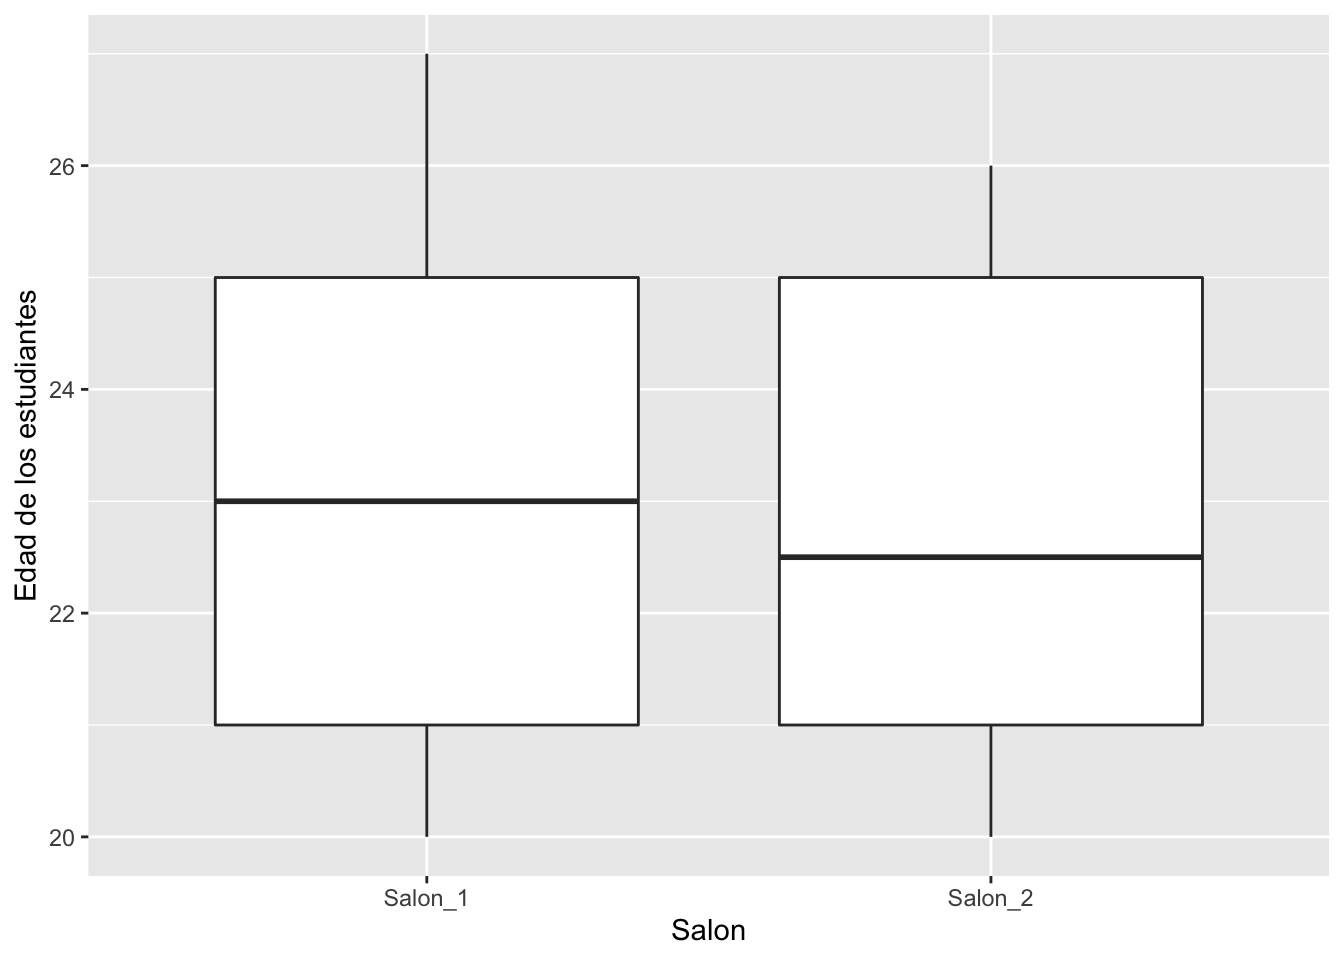
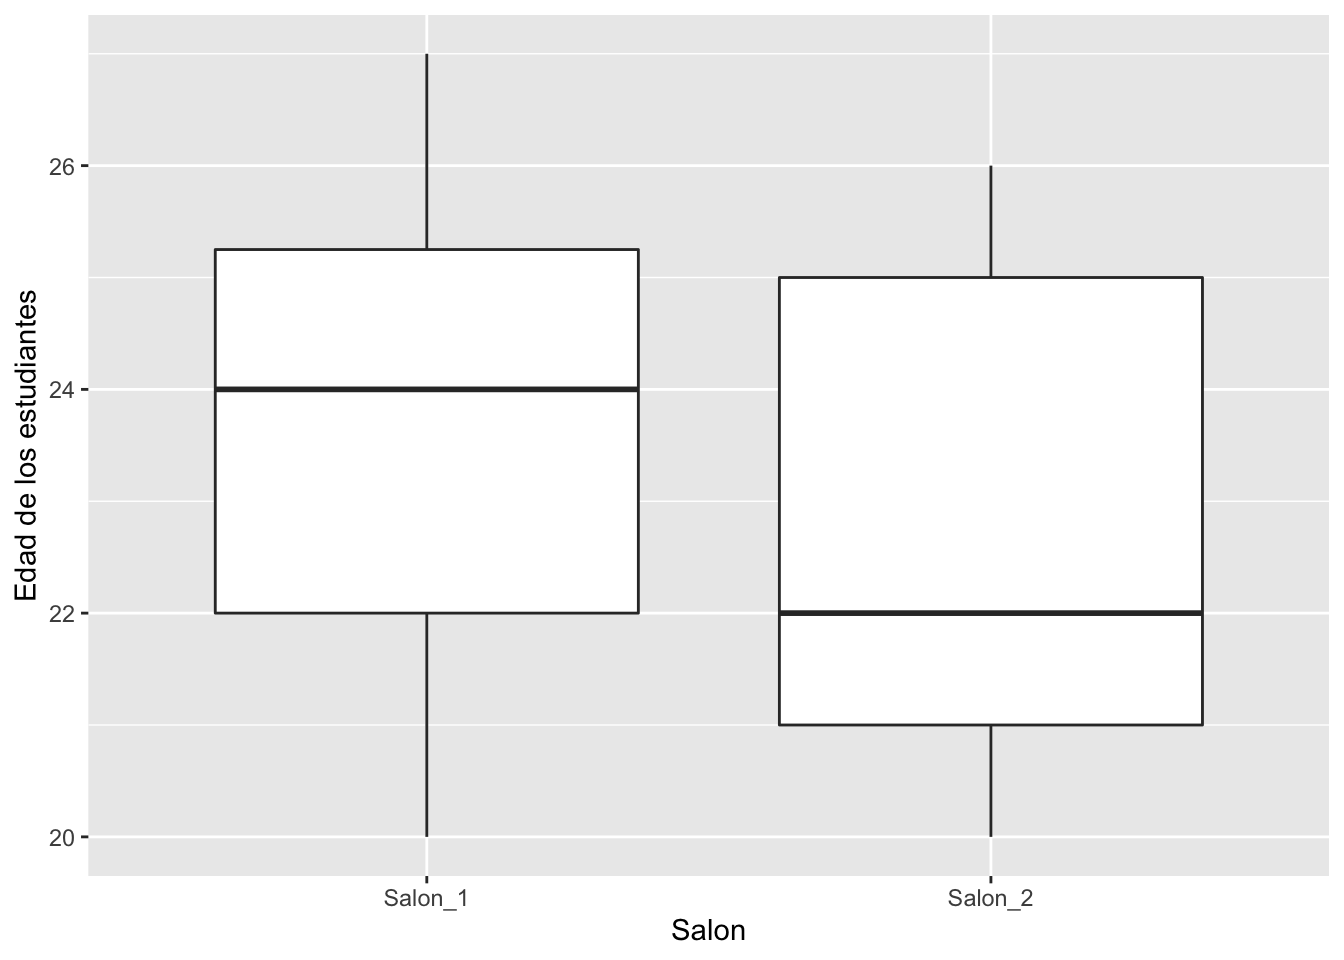
Florence

diff --git a/ggplot2.html b/ggplot2.html
@@ -379,7 +379,7 @@ div.tocify {
   </a>
   <ul class="dropdown-menu" role="menu">
     <li>
-      <a href="Errores-tipicos-en-la-visualizacion.html">Errores tipicos en la visualización</a>
+      <a href="Errores-tipicos-en-la-visualizacion.html">Errores típicos en la visualización</a>
     </li>
     <li>
       <a href="ggplot2.html">Introducción a la visualización de datos</a>
@@ -469,30 +469,26 @@ div.tocify {
 </div>
 
 
-<div id="que-es-visualizar-datos-uy-cual-es-el-problema" class="section level1">
-<h1>¿Que es visualizar datos uy cual es el problema?</h1>
-<p>La visualización de datos tiene como objetivo facilitar la apreciación de datos y determinar si patrones. Naturalmente, no se necesita gráficos para entender ciertos ideas. Por ejemplo si un estudiantes tiene 25 años un otro estudiante tiene 20 años. No hay que hacer un gráfico para entender que hay 5 años de diferencia entre uno y el otro. Se hace gráficos típicamente cuando hay muchos datos y entender los datos con valores numéricos o lista no es ayuda.</p>
+<div id="que-es-la-visualización-de-datos" class="section level1">
+<h1>¿Que es la visualización de datos?</h1>
+<p>La visualización de datos tiene como objetivo facilitar la apreciación de datos y determinar si existe patrones. Naturalmente, no se necesita gráficos para entender ciertas ideas. Por ejemplo si un estudiantes tiene 25 años un otro estudiante tiene 20 años. No hay que hacer un gráfico para entender que hay 5 años de diferencia entre uno y el otro. Se hace gráficos típicamente cuando hay muchos datos y entender los datos con valores numéricos o lista no es ayuda.</p>
 <p>Por ejemplo trata de explicar cual es la diferencia (si hay) en las dos listas siguientes.</p>
-<pre><code>## Warning in doTryCatch(return(expr), name, parentenv, handler): unable to load shared object &#39;/Library/Frameworks/R.framework/Resources/modules//R_X11.so&#39;:
-##   dlopen(/Library/Frameworks/R.framework/Resources/modules//R_X11.so, 6): Library not loaded: /opt/X11/lib/libSM.6.dylib
-##   Referenced from: /Library/Frameworks/R.framework/Versions/4.0/Resources/modules/R_X11.so
-##   Reason: image not found</code></pre>
 <pre><code>## $V1
-##   [1] 24 20 27 26 22 20 25 20 23 20 27 21 21 23 22 25 25 27 23 25 26 21 23 21 22
-##  [26] 22 20 23 24 24 26 24 23 20 23 20 26 23 25 24 24 27 21 22 20 20 27 20 22 26
-##  [51] 21 25 23 24 21 21 22 20 24 22 20 24 24 22 27 22 27 26 20 27 24 21 27 20 21
-##  [76] 24 26 22 24 26 22 23 25 21 20 21 27 26 21 26 23 26 22 27 26 22 24 24 24 26</code></pre>
+##   [1] 24 20 24 25 23 24 24 22 22 26 25 26 24 23 25 27 25 23 23 25 25 21 25 20 22
+##  [26] 20 24 23 24 26 24 26 23 24 22 25 24 25 20 27 25 22 20 20 24 25 20 25 20 24
+##  [51] 24 23 27 25 24 25 25 20 24 23 22 23 27 21 23 23 23 21 21 25 23 24 22 27 24
+##  [76] 21 21 21 25 22 27 21 26 26 20 25 20 21 24 20 24 22 21 21 24 26 23 24 22 25</code></pre>
 <hr />
 <pre><code>## $V1
-##   [1] 22 22 22 26 25 21 24 22 25 22 22 24 24 23 23 22 25 20 20 26 25 20 21 23 24
-##  [26] 25 22 23 26 23 21 25 24 25 23 25 25 24 21 21 22 20 25 23 20 26 23 24 21 21
-##  [51] 20 20 20 20 22 22 21 26 26 22 26 25 24 21 22 24 25 26 26 25 20 21 22 26 22
-##  [76] 20 21 26 24 21 23 20 20 22 21 21 24 26 24 25 26 24 22 20 22 20 25 20 20 22</code></pre>
-<p>Probablemente no es evidente a primera vista cual es la diferencia.</p>
+##   [1] 25 22 21 23 25 22 25 23 20 26 25 26 24 23 24 26 26 23 20 26 25 25 20 22 22
+##  [26] 25 21 23 23 25 25 24 26 26 20 22 25 24 24 22 22 23 26 22 26 26 23 24 25 26
+##  [51] 20 20 24 21 20 22 23 25 20 25 20 23 21 23 21 21 25 20 24 25 20 23 26 24 21
+##  [76] 23 20 26 24 24 21 21 22 20 20 22 20 21 21 22 22 21 26 24 23 21 23 25 20 20</code></pre>
+<p>Probablemente no es evidente a primera vista cual es la diferencia entre las dos listas de datos.</p>
 <hr />
 <div id="resumir-la-información-en-tablas" class="section level2">
 <h2>Resumir la información en tablas</h2>
-<p>Una de las alternativas es resumir los datos en una tablas, por ejemplo por grupos</p>
+<p>Una de las alternativas es resumir los datos en una tablas, por ejemplo por grupos. Se observa que hay muy poca diferencia entre los promedios de edad de los estudiantes por cada salón, pero la edad máxima de los estudiantes en los dos salones es diferente. Lo que uno observa es que las dos listas tienen valores muy similares pero el máximo valor en cada lista es diferente. Si hay muchos valores en una lista típicamente los humanos no podemos entender estos patrones. Por consecuencia es importante buscar maneras de resumir los datos en algo más conciso.</p>
 <pre class="r"><code>df%&gt;%
   select(V1, Salon)%&gt;%
   group_by(Salon)%&gt;%
@@ -502,12 +498,11 @@ div.tocify {
   gt()%&gt;%
   tab_header(
     title = &quot;Edad de los Estudiantes&quot;)</code></pre>
-<pre><code>## `summarise()` ungrouping output (override with `.groups` argument)</code></pre>
-<p><style>html {
+<style>html {
   font-family: -apple-system, BlinkMacSystemFont, 'Segoe UI', Roboto, Oxygen, Ubuntu, Cantarell, 'Helvetica Neue', 'Fira Sans', 'Droid Sans', Arial, sans-serif;
 }
 
-#hlftetwyzv .gt_table {
+#siihlizehj .gt_table {
   display: table;
   border-collapse: collapse;
   margin-left: auto;
@@ -530,7 +525,7 @@ div.tocify {
   border-left-color: #D3D3D3;
 }
 
-#hlftetwyzv .gt_heading {
+#siihlizehj .gt_heading {
   background-color: #FFFFFF;
   text-align: center;
   border-bottom-color: #FFFFFF;
@@ -542,7 +537,7 @@ div.tocify {
   border-right-color: #D3D3D3;
 }
 
-#hlftetwyzv .gt_title {
+#siihlizehj .gt_title {
   color: #333333;
   font-size: 125%;
   font-weight: initial;
@@ -552,7 +547,7 @@ div.tocify {
   border-bottom-width: 0;
 }
 
-#hlftetwyzv .gt_subtitle {
+#siihlizehj .gt_subtitle {
   color: #333333;
   font-size: 85%;
   font-weight: initial;
@@ -562,13 +557,13 @@ div.tocify {
   border-top-width: 0;
 }
 
-#hlftetwyzv .gt_bottom_border {
+#siihlizehj .gt_bottom_border {
   border-bottom-style: solid;
   border-bottom-width: 2px;
   border-bottom-color: #D3D3D3;
 }
 
-#hlftetwyzv .gt_col_headings {
+#siihlizehj .gt_col_headings {
   border-top-style: solid;
   border-top-width: 2px;
   border-top-color: #D3D3D3;
@@ -583,7 +578,7 @@ div.tocify {
   border-right-color: #D3D3D3;
 }
 
-#hlftetwyzv .gt_col_heading {
+#siihlizehj .gt_col_heading {
   color: #333333;
   background-color: #FFFFFF;
   font-size: 100%;
@@ -603,7 +598,7 @@ div.tocify {
   overflow-x: hidden;
 }
 
-#hlftetwyzv .gt_column_spanner_outer {
+#siihlizehj .gt_column_spanner_outer {
   color: #333333;
   background-color: #FFFFFF;
   font-size: 100%;
@@ -615,15 +610,15 @@ div.tocify {
   padding-right: 4px;
 }
 
-#hlftetwyzv .gt_column_spanner_outer:first-child {
+#siihlizehj .gt_column_spanner_outer:first-child {
   padding-left: 0;
 }
 
-#hlftetwyzv .gt_column_spanner_outer:last-child {
+#siihlizehj .gt_column_spanner_outer:last-child {
   padding-right: 0;
 }
 
-#hlftetwyzv .gt_column_spanner {
+#siihlizehj .gt_column_spanner {
   border-bottom-style: solid;
   border-bottom-width: 2px;
   border-bottom-color: #D3D3D3;
@@ -635,7 +630,7 @@ div.tocify {
   width: 100%;
 }
 
-#hlftetwyzv .gt_group_heading {
+#siihlizehj .gt_group_heading {
   padding: 8px;
   color: #333333;
   background-color: #FFFFFF;
@@ -657,7 +652,7 @@ div.tocify {
   vertical-align: middle;
 }
 
-#hlftetwyzv .gt_empty_group_heading {
+#siihlizehj .gt_empty_group_heading {
   padding: 0.5px;
   color: #333333;
   background-color: #FFFFFF;
@@ -672,19 +667,19 @@ div.tocify {
   vertical-align: middle;
 }
 
-#hlftetwyzv .gt_striped {
+#siihlizehj .gt_striped {
   background-color: rgba(128, 128, 128, 0.05);
 }
 
-#hlftetwyzv .gt_from_md > :first-child {
+#siihlizehj .gt_from_md > :first-child {
   margin-top: 0;
 }
 
-#hlftetwyzv .gt_from_md > :last-child {
+#siihlizehj .gt_from_md > :last-child {
   margin-bottom: 0;
 }
 
-#hlftetwyzv .gt_row {
+#siihlizehj .gt_row {
   padding-top: 8px;
   padding-bottom: 8px;
   padding-left: 5px;
@@ -703,7 +698,7 @@ div.tocify {
   overflow-x: hidden;
 }
 
-#hlftetwyzv .gt_stub {
+#siihlizehj .gt_stub {
   color: #333333;
   background-color: #FFFFFF;
   font-size: 100%;
@@ -715,7 +710,7 @@ div.tocify {
   padding-left: 12px;
 }
 
-#hlftetwyzv .gt_summary_row {
+#siihlizehj .gt_summary_row {
   color: #333333;
   background-color: #FFFFFF;
   text-transform: inherit;
@@ -725,7 +720,7 @@ div.tocify {
   padding-right: 5px;
 }
 
-#hlftetwyzv .gt_first_summary_row {
+#siihlizehj .gt_first_summary_row {
   padding-top: 8px;
   padding-bottom: 8px;
   padding-left: 5px;
@@ -735,7 +730,7 @@ div.tocify {
   border-top-color: #D3D3D3;
 }
 
-#hlftetwyzv .gt_grand_summary_row {
+#siihlizehj .gt_grand_summary_row {
   color: #333333;
   background-color: #FFFFFF;
   text-transform: inherit;
@@ -745,7 +740,7 @@ div.tocify {
   padding-right: 5px;
 }
 
-#hlftetwyzv .gt_first_grand_summary_row {
+#siihlizehj .gt_first_grand_summary_row {
   padding-top: 8px;
   padding-bottom: 8px;
   padding-left: 5px;
@@ -755,7 +750,7 @@ div.tocify {
   border-top-color: #D3D3D3;
 }
 
-#hlftetwyzv .gt_table_body {
+#siihlizehj .gt_table_body {
   border-top-style: solid;
   border-top-width: 2px;
   border-top-color: #D3D3D3;
@@ -764,7 +759,7 @@ div.tocify {
   border-bottom-color: #D3D3D3;
 }
 
-#hlftetwyzv .gt_footnotes {
+#siihlizehj .gt_footnotes {
   color: #333333;
   background-color: #FFFFFF;
   border-bottom-style: none;
@@ -778,13 +773,13 @@ div.tocify {
   border-right-color: #D3D3D3;
 }
 
-#hlftetwyzv .gt_footnote {
+#siihlizehj .gt_footnote {
   margin: 0px;
   font-size: 90%;
   padding: 4px;
 }
 
-#hlftetwyzv .gt_sourcenotes {
+#siihlizehj .gt_sourcenotes {
   color: #333333;
   background-color: #FFFFFF;
   border-bottom-style: none;
@@ -798,46 +793,46 @@ div.tocify {
   border-right-color: #D3D3D3;
 }
 
-#hlftetwyzv .gt_sourcenote {
+#siihlizehj .gt_sourcenote {
   font-size: 90%;
   padding: 4px;
 }
 
-#hlftetwyzv .gt_left {
+#siihlizehj .gt_left {
   text-align: left;
 }
 
-#hlftetwyzv .gt_center {
+#siihlizehj .gt_center {
   text-align: center;
 }
 
-#hlftetwyzv .gt_right {
+#siihlizehj .gt_right {
   text-align: right;
   font-variant-numeric: tabular-nums;
 }
 
-#hlftetwyzv .gt_font_normal {
+#siihlizehj .gt_font_normal {
   font-weight: normal;
 }
 
-#hlftetwyzv .gt_font_bold {
+#siihlizehj .gt_font_bold {
   font-weight: bold;
 }
 
-#hlftetwyzv .gt_font_italic {
+#siihlizehj .gt_font_italic {
   font-style: italic;
 }
 
-#hlftetwyzv .gt_super {
+#siihlizehj .gt_super {
   font-size: 65%;
 }
 
-#hlftetwyzv .gt_footnote_marks {
+#siihlizehj .gt_footnote_marks {
   font-style: italic;
   font-size: 65%;
 }
 </style>
-<div id="hlftetwyzv" style="overflow-x:auto;overflow-y:auto;width:auto;height:auto;"><table class="gt_table">
+<div id="siihlizehj" style="overflow-x:auto;overflow-y:auto;width:auto;height:auto;"><table class="gt_table">
   <thead class="gt_header">
     <tr>
       <th colspan="4" class="gt_heading gt_title gt_font_normal" style>Edad de los Estudiantes</th>
@@ -857,20 +852,20 @@ div.tocify {
   <tbody class="gt_table_body">
     <tr>
       <td class="gt_row gt_left">Salon_1</td>
-      <td class="gt_row gt_right">23.28</td>
+      <td class="gt_row gt_right">23.36</td>
       <td class="gt_row gt_center">20</td>
       <td class="gt_row gt_center">27</td>
     </tr>
     <tr>
       <td class="gt_row gt_left">Salon_2</td>
-      <td class="gt_row gt_right">22.84</td>
+      <td class="gt_row gt_right">22.96</td>
       <td class="gt_row gt_center">20</td>
       <td class="gt_row gt_center">26</td>
     </tr>
   </tbody>
   
   
-</table></div> Lo que uno observa es que las dos listas tienen valores muy similares pero el máximo valor en cada lista es diferente. Si hay muchos valores en una lista típicamente los humanos no podemos entender estos patrones. Por consecuencia es importante buscar maneras de resumir los datos en algo más conciso.</p>
+</table></div>
 </div>
 <div id="visualizar-muchos-datos" class="section level2">
 <h2>Visualizar muchos datos</h2>
@@ -878,23 +873,32 @@ div.tocify {
 <pre class="r"><code>ggplot(df, aes(y=V1, x=Salon))+
   geom_boxplot()+
   ylab(&quot;Edad de los estudiantes&quot;)</code></pre>
-<p><img src="ggplot2_files/figure-html/unnamed-chunk-7-1.png" width="672" style="display: block; margin: auto;" /></p>
+<p><img src="ggplot2_files/figure-html/unnamed-chunk-8-1.png" width="672" style="display: block; margin: auto;" /></p>
 </div>
 </div>
 <div id="ejemplos-históricos" class="section level1">
 <h1>Ejemplos históricos</h1>
-<div id="ejemplo-de-la-campaña-de-napoleon-para-invadir-a-rusia" class="section level2">
-<h2>Ejemplo de la Campaña de Napoleon para invadir a Rusia</h2>
-<p>Esta sección no es exhaustiva y solamente para representar algunos ejemplos de gráficos y su desarrollo. Charles Joseph Minard (1781-1870; Francia) es una de las personas que contribuyó en lo que se llama gráficas informativas (Information Graphics). El es reconocido por haber sido muy inovador en el uso de greaficos para demostrar patrones. El más famoso de este fue sobre la campaña de guerra de Napoleon para invadir a Rusia (1812-1813).</p>
-<p>En este mapa, vemos el movimiento de la campaña de Napoleon para invadir a Rusia. El movimiento representa la cantidad de hombres que comenzaron el camino hacia Rusia (la linea marón clara) hasta Moscú, el viaje de regreso (el color negro). El ancho de la barra representa la cantidad de hombres presente en el ejercicio militar. Cuando comenzaron (saliendo de Paris) eran más de 422,000 soldados, al llegar a Moscú ya era solamente 100,000 soldados. Cuando finalmente, al regresar a Paris, despues de invadir a Rusia, Napoleon tenia solamente 10,000 soldados con él.</p>
-<p>Nota el gráfico debajo, este representa la temperatura de regreso de Moscú, y miran como al bajar la temperatura más y más los soldados murieron. La mortandad en gran parte fue por no estar preparado para el frio.</p>
+<p>En esta sección presento unos ejemplos históricos de representación gráficos. Esta sección no es exhaustiva y solamente para representar algunos ejemplos de gráficos y su desarrollo.</p>
+<div id="ejemplo-de-la-campaña-de-napoleón-para-invadir-a-rusia" class="section level2">
+<h2>Ejemplo de la Campaña de Napoleón para invadir a Rusia</h2>
+<p>Charles Joseph Minard (1781-1870; Francia) es una de las personas que contribuyó en lo que se llama gráficas informativas (Information Graphics). El es reconocido por haber sido muy innovador en el uso de gráficos para demostrar patrones. El más famoso de este fue sobre la campaña de guerra de Napoleón para invadir a Rusia (1812-1813).</p>
+<p>En este mapa, vemos el movimiento de la campaña de Napoleón para invadir a Rusia. El movimiento representa la cantidad de hombres que comenzaron el camino hacia Rusia (<span style="color: brown;">la linea con color marón</span>) hasta Moscú, el viaje de regreso el color <strong>negro</strong>. El ancho de la barra representa la cantidad de hombres presente en el ejercicio militar. Cuando comenzaron (saliendo de Paris) eran más de 422,000 soldados, al llegar a Moscú ya era solamente 100,000 soldados. Cuando finalmente, al regresar a Paris, después de invadir a Rusia, Napoleón tenia solamente 10,000 soldados con él..</p>
+<p>Nota el gráfico debajo, este representa la temperatura de regreso de Moscú, y miran como al bajar la temperatura más y más los soldados murieron. La mortandad en gran parte fue por no estar preparado para el frío. La escala de temperatura no era el de Celcius ni de Farenheit, pero una escala que se llama <strong>Réaumus</strong>, donde el punto de congelación y hirviendo es de 0° y 80° respectivamente. Esta escala se uso en multiples paises de Europa hasta medio del siglo 19.</p>
 <p><img src="Graficos/Carte_Napoleon.png" width="70%" style="display: block; margin: auto;" /></p>
 </div>
 <div id="donde-proviene-la-carne-que-consumen-la-gente-de-paris" class="section level2">
 <h2>Donde proviene la carne que consumen la gente de Paris</h2>
-<p>Un otro ejemplo de Minard es la siguiente gráfico que representa donde proviene la carne que la gente en Paris comen. El color negro representa carne vaca, el color verde es la ternera y el rojo es el cordero. El uso “Pie Charts” para identificar la proporción de cada grupo y el tamaño del “Pie Chart” para identificar la cantidad relativa con los otros departamentos (Organización política local).</p>
+<p>Un otro ejemplo de Minard es la siguiente gráfico que representa donde proviene la carne que la gente en Paris comen. El color <strong>negro</strong> representa carne vaca, el color <span style="color: green;">el color verde</span> es la ternera y el <span style="color: red;">color rojo</span> es el cordero. El uso “Pie Charts” para identificar la proporción de cada grupo y el tamaño del “Pie Chart” para identificar la cantidad relativa con los otros departamentos (Organización política local).</p>
 <p><img src="Graficos/Minard_Carne_Paris.png" width="60%" style="display: block; margin: auto;" /></p>
 </div>
+</div>
+<div id="gráfico-combcox" class="section level1">
+<h1>Gráfico Combcox</h1>
+<p>La guerra de Crimea (1853-1856) fue una de las primeras guerras donde se comenzó a contabilizar la causa de los soldados. Esta guerra tenia como conflicto general entre Rusia y sus aliados por el otro lado el Emperio Otaman, Francia, Reino Unido y Sardania (ahora parte de Italia). El objetivo al principio era sobre el acceso a las tierras Santas en Palestina por los cristianos. Lo que es interesante de esta guerra con relación la historía de la evolución de los gráficos es el impacto que tuvo una enfermera de los Reinos Unidos que se llama Florence Nightingale (1820_1910). Era no solamente una persona que tuvo impacto sobre el desarrollo de como se hace la ciencia de “Enfermeria” pero tuvo impacto en como visualizar los las enfermedades y mortandad. Aquí una ilustración de ella.</p>
+<p><img src="Graficos/Florence_Nightingale.png" width="40%" style="display: block; margin: auto;" /></p>
+<p>Como enfermera en las campos militares, ella se percato que la gran mayoría de los soldados se mueren no por la guerra pero por la poca calidad de condición de salud en estas situaciones. Para tratar de impactar los políticos para que aportan más a la condiciones de los soldados ella recolecto datos y produjo unos gráfico para describir la causa de mortandad en Crimea. Uno de estos que tuvo un impacto es sobre es el siguiente gráfico.</p>
+<p>Lo que ella demeustra en este gráfico es cual son las causas de mortandad de los soldados en diferentes meses del año. El color <span style="color: grey;">gris</span>, represente la cantidad de soldados muertos por enfermedades (no por estar batallas), el color <span style="color: green;">verde</span>, representa los soldados que murieron por otras razón no por estar en batalla no por enfermedades, y el color <span style="color: yellow;">amarillo</span> son los que murieron por estas en batallas. Es claro que el siguiente gráfico que la causa principal de mortandad no es el campo de batalla, pero por otras causas.</p>
+<p><img src="Graficos/coxcombchart.png" width="40%" style="display: block; margin: auto;" /></p>
 </div>
 
 

diff --git a/Tema_2_Historia.html b/Tema_2_Historia.html
@@ -379,7 +379,7 @@ div.tocify {
   </a>
   <ul class="dropdown-menu" role="menu">
     <li>
-      <a href="Errores-tipicos-en-la-visualizacion.html">Errores tipicos en la visualización</a>
+      <a href="Errores-tipicos-en-la-visualizacion.html">Errores típicos en la visualización</a>
     </li>
     <li>
       <a href="ggplot2.html">Introducción a la visualización de datos</a>
